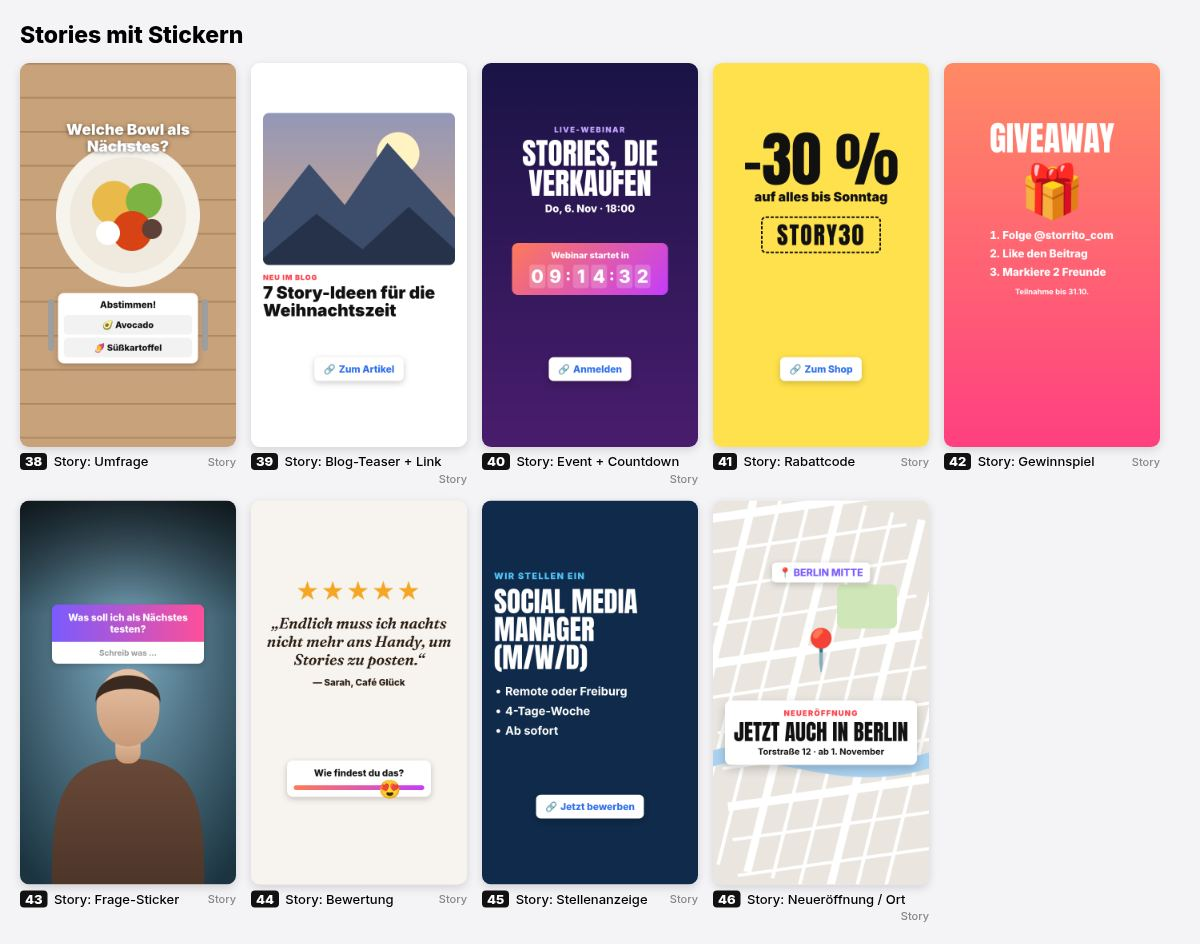
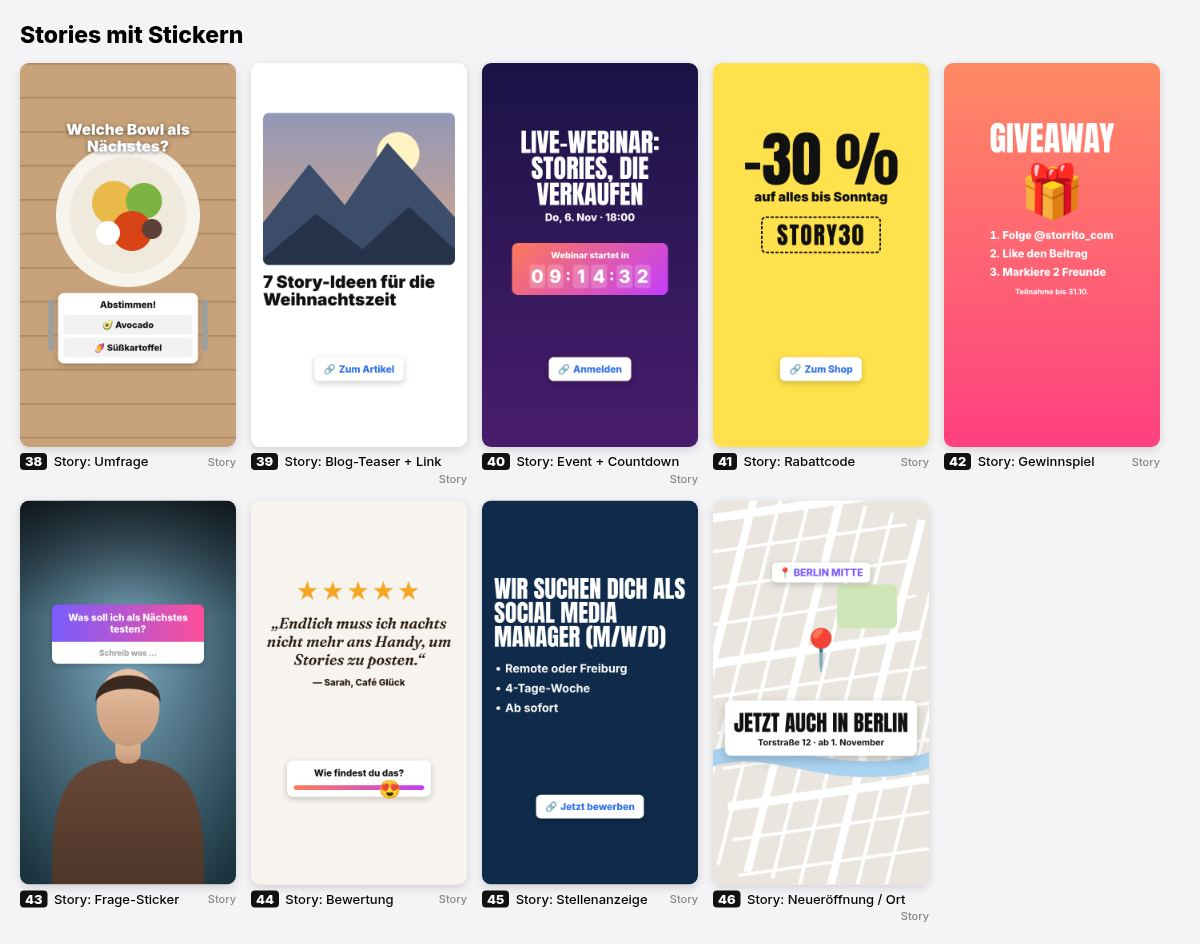
platform-zones: no eyebrow over a headline unless it says what the headline does not
Models add a small label above every headline ("NEW", "TIP", "NEW ON THE BLOG") whether it
says anything or not. The layout rules now make none the default and allow one only for what the
viewer needs before the headline (a series' part, a date or place, "Ad", a source), with the
reason. The patterns, their pictures and story-from-link's example lose their empty eyebrows:
examples teach more than rules.

diff --git a/platform-zones/references/layouts.md b/platform-zones/references/layouts.md
@@ -9,7 +9,8 @@ people, and to show the person when they choose a style): [../examples/](../exam
 
 The rules every pattern keeps are SKILL.md's "Laying out a frame". In short: text centred on the
 frame and at most `centred` wide; something wide in `wide`; captions end on the safe box's bottom;
-faces in the upper third, never under text; under what the apps cover only ground.
+faces in the upper third, never under text; under what the apps cover only ground; no eyebrow over
+a headline unless it says what the headline does not (a series' part, a date, a source).
 
 ## Talking heads
 
@@ -51,7 +52,7 @@ faces in the upper third, never under text; under what the apps cover only groun
 | **Timeline** | A vertical line with 3–5 points (year bold, one line of text) in `centred`. |
 | **Tutorial step** | A badge "Step 2 of 5" at the top; the phone or screen in the middle with the place to tap ringed; the instruction as captions. |
 | **Screencast + face** | The screen across `wide`; the face as a circle under it at the left edge of `centred`; captions at the bottom. |
-| **News / announcement** | A picture; a label ("NEW") and the headline, big, ending near the safe box's bottom; the date under it. |
+| **News / announcement** | A picture; the headline, big, saying what is new ("Stories now on Facebook too"), ending near the safe box's bottom; the date under it. |
 
 ## Products and trades
 
@@ -75,11 +76,11 @@ Storrito adds Instagram's stickers to any Story (SKILL.md, "Stickers on Stories"
 | pattern | where |
 | --- | --- |
 | **Poll** | The question as text at the top of the safe box over the picture; the poll sticker in the lower middle, clear of the subject. |
-| **Article teaser + link** | The article's picture at the top, a label ("NEW ON THE BLOG") and the headline under it; the link sticker centred above the safe box's bottom. |
-| **Event + countdown** | Kind, title and date at the top; the countdown sticker in the middle; the link sticker (sign up) at the bottom. |
+| **Article teaser + link** | The article's picture at the top, the headline under it; the link sticker centred above the safe box's bottom. |
+| **Event + countdown** | The title and the date at the top (the title says what it is: "Live webinar: stories that sell"); the countdown sticker in the middle; the link sticker (sign up) at the bottom. |
 | **Discount code** | The discount huge, what it is for, the code in a dashed box; the link sticker at the bottom. |
 | **Giveaway** | "GIVEAWAY", the prize, the steps (follow, like, tag) and the closing date, all centred; no sticker needed (a mention sticker for the account works). |
 | **Question box** | The face; the question sticker at the top of the safe box, clear of the face. |
 | **Review + slider** | Stars, the review, who wrote it; an emoji slider below, above the safe box's bottom. |
-| **Job ad** | "WE'RE HIRING", the role big, 3 benefits; the link sticker (apply) at the bottom. |
-| **Opening / place** | A map with a pin; a card with "NEW OPENING", the place and the date; a location sticker at the top. |
+| **Job ad** | The role big, said as a search ("We're looking for a social media manager"), 3 benefits; the link sticker (apply) at the bottom. |
+| **Opening / place** | A map with a pin; a card with the headline ("Now open in Berlin"), the address and the date; a location sticker at the top. |

diff --git a/platform-zones/SKILL.md b/platform-zones/SKILL.md
@@ -53,6 +53,7 @@ What to place where, whatever the frame shows. The numbers come from `zones` for
 - **Captions:** their lowest line on the safe box's bottom. Two people one above the other: on the seam between them. A picture or a screen filling the top: between it and the face.
 - **Faces:** the eyes in the upper third of the frame; text never on a face (a name tag beside it or below the chin). A face stays inside the safe box; the body may run under the apps' bars.
 - **Under what the apps cover:** only ground, texture, the rest of a picture.
+- **No eyebrow.** A headline stands alone, without a small label above it ("NEW", "TIP", "DID YOU KNOW?", "NEW ON THE BLOG", "WE'RE HIRING", the brand's name). An eyebrow only when it says what the headline does not and the viewer needs it before the headline: a series' part ("Part 2/5"), an event's date or place, "Ad" where the law asks for it, the source of a quote or a number. A frame shows for seconds: every extra line of text costs reading time and pushes the headline down. When the label's words are worth saying, put them into the headline ("Now open in Berlin", not "NEW OPENING" over "Berlin").
 - **Stickers on Stories.** Storrito puts Instagram's own stickers (link, poll, question, quiz, countdown, emoji slider, mention, hashtag, location) on any Story it schedules, a picture or a video, made by any skill: they are `<insta-…>` elements in the story's HTML, at the place and in the size they have there ([Storrito's component reference](https://storrito.com/documentation/api/v1/story-components.md)). So a Story keeps room for its sticker where it belongs: a link at the bottom of the safe box below the call to action, a poll, a question or a countdown in the middle, never on text or a face, 40 px between stickers. Pills (link, mention, hashtag, location) are 177 px tall; polls, questions, quizzes, countdowns and sliders 690–820 px wide and 260–890 px tall. Reels, TikTok and the feeds have no stickers: a call to action there is text.
 
 ## Check a layout

diff --git a/platform-zones/README.md b/platform-zones/README.md
@@ -44,7 +44,7 @@ The hard limit is what an app covers (`covers`); the margins beyond it are a buf
 
 ## Laying out a frame, and checking it
 
-SKILL.md's "Laying out a frame" holds the rules every skill places by: text centred on the frame and at most `centred` wide, something wide at the top in `wide`, captions on the safe box's bottom (on the seam of two stacked people, between a top picture and the face), faces in the upper third and never under text, only ground under what the apps cover.
+SKILL.md's "Laying out a frame" holds the rules every skill places by: text centred on the frame and at most `centred` wide, something wide at the top in `wide`, captions on the safe box's bottom (on the seam of two stacked people, between a top picture and the face), faces in the upper third and never under text, only ground under what the apps cover, and no eyebrow over a headline unless it says what the headline does not (a series' part, a date, a source).
 
 Stickers: Storrito puts Instagram's native stickers on any Story it schedules, image or video, from `<insta-…>` elements in the story's HTML. It renders the HTML at 1080×1920, takes each sticker's place and size from its rendered box, its rotation and scale from its CSS transform, and the background with the stickers hidden ([component reference](https://storrito.com/documentation/api/v1/story-components.md)). Any skill that makes a Story can therefore add stickers; the layout keeps room for them.
 

diff --git a/story-from-link/SKILL.md b/story-from-link/SKILL.md
@@ -65,7 +65,7 @@ Write `work/<name>/story.json`. A good story:
   "link": "https://example.com/products/berry",
   "lang": "de",
   "frames": [
-    {"kind": "cover", "kicker": "Neu", "title": "Weniger Zucker. *Volle Beeren.*", "image": "images/07.png"},
+    {"kind": "cover", "title": "Weniger Zucker. *Volle Beeren.*", "image": "images/07.png"},
     {"kind": "product", "title": "Bio Berry Müsli", "price": "9,95 €", "badge": "–30 % Zucker", "image": "images/01.png", "theme": "light"},
     {"kind": "list", "title": "Was drin ist", "items": ["Erdbeeren", "Himbeeren", "Knuspriger Hafer"], "marks": "check"},
     {"kind": "stat", "value": "30 %", "title": "weniger Zucker", "stickers": [{"type": "poll", "question": "Schon probiert?", "options": ["Ja", "Noch nicht"], "color": "pink"}]},
@@ -76,7 +76,7 @@ Write `work/<name>/story.json`. A good story:
 
 | kind | fields | for |
 | --- | --- | --- |
-| `cover` | `kicker`, `title`, `image` | the hook |
+| `cover` | `title`, `image`, `kicker` (rarely: only what the title does not say and the viewer needs first, e.g. a date or "Part 2/5"; never "New", "Tip" or the brand) | the hook |
 | `text` | `title`, `body`, `number` ("02") | one point |
 | `list` | `title`, `items` (2–5), `marks: "check"` | steps, contents, reasons |
 | `quote` | `quote`, `author`, `role`, `image` (a portrait) | a voice, a review |

diff --git a/story-from-link/README.md b/story-from-link/README.md
@@ -67,7 +67,7 @@ The frames take the display font from `headline-display` (else `display`, `headl
   "link": "https://www.example.com/products/berry",
   "lang": "de",
   "frames": [
-    {"kind": "cover", "kicker": "Neu", "title": "Weniger Zucker. *Volle Beeren.*", "image": "images/07.png"},
+    {"kind": "cover", "title": "Weniger Zucker. *Volle Beeren.*", "image": "images/07.png"},
     {"kind": "product", "title": "Bio Berry Müsli", "price": "9,95 €", "badge": "–30 % Zucker", "image": "images/01.png", "theme": "light"},
     {"kind": "cta", "title": "Jetzt *probieren*", "stickers": [{"type": "link", "text": "Zum Müsli"}]}
   ]
